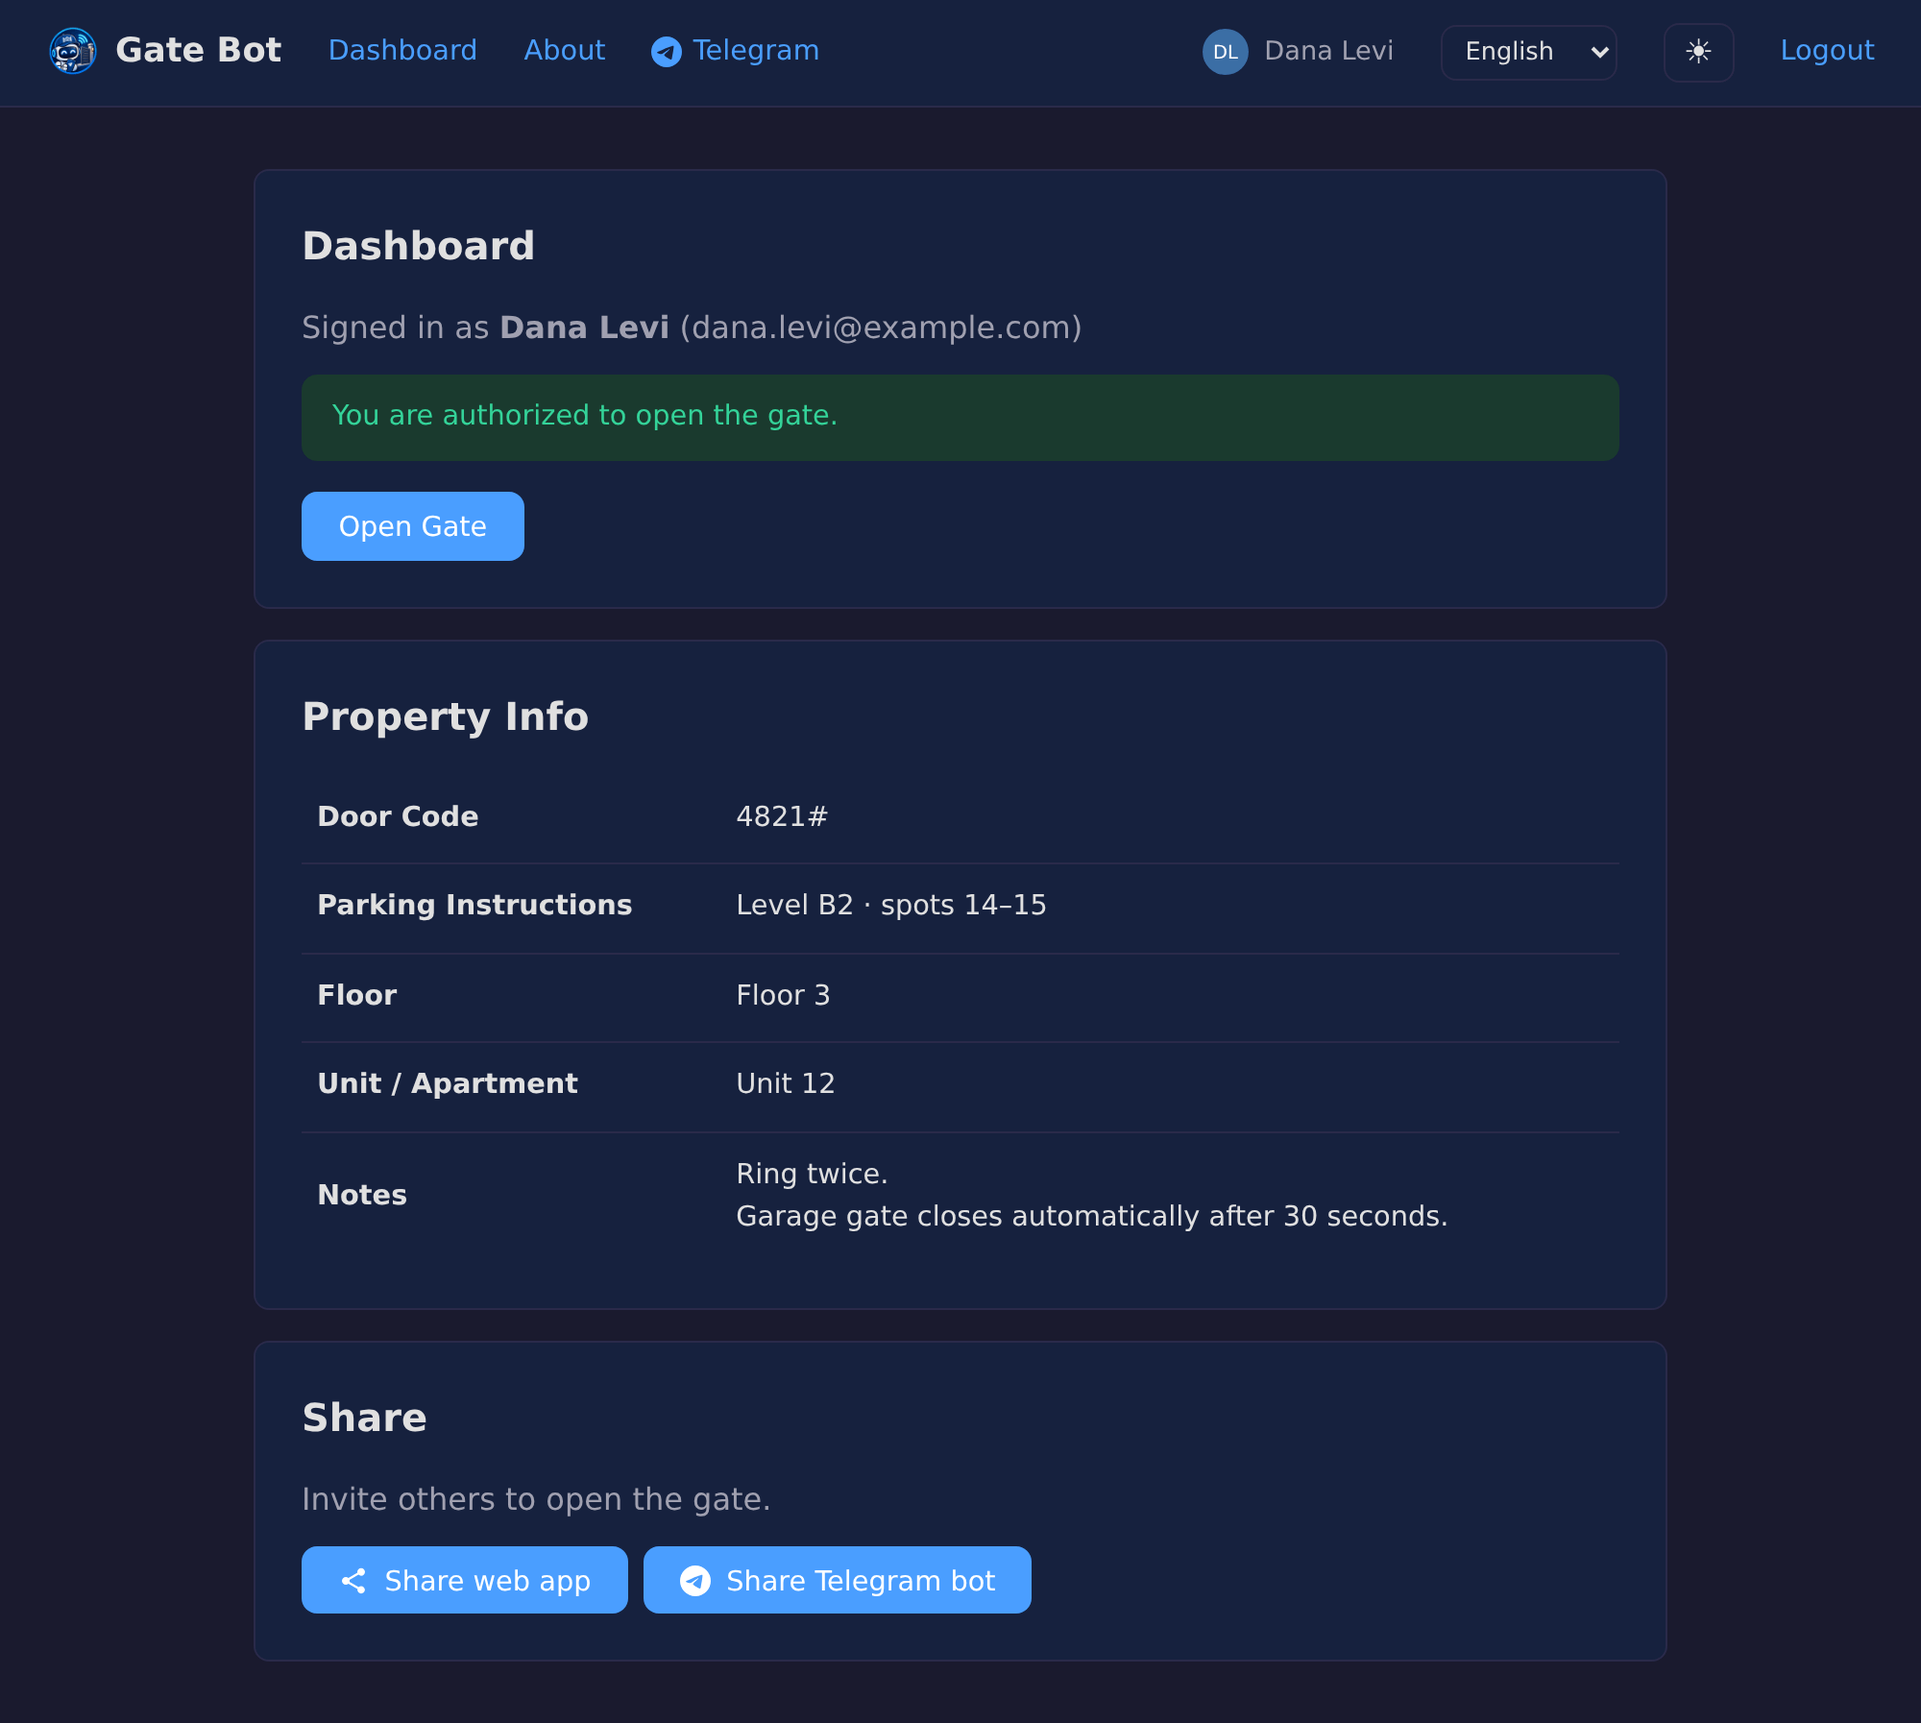
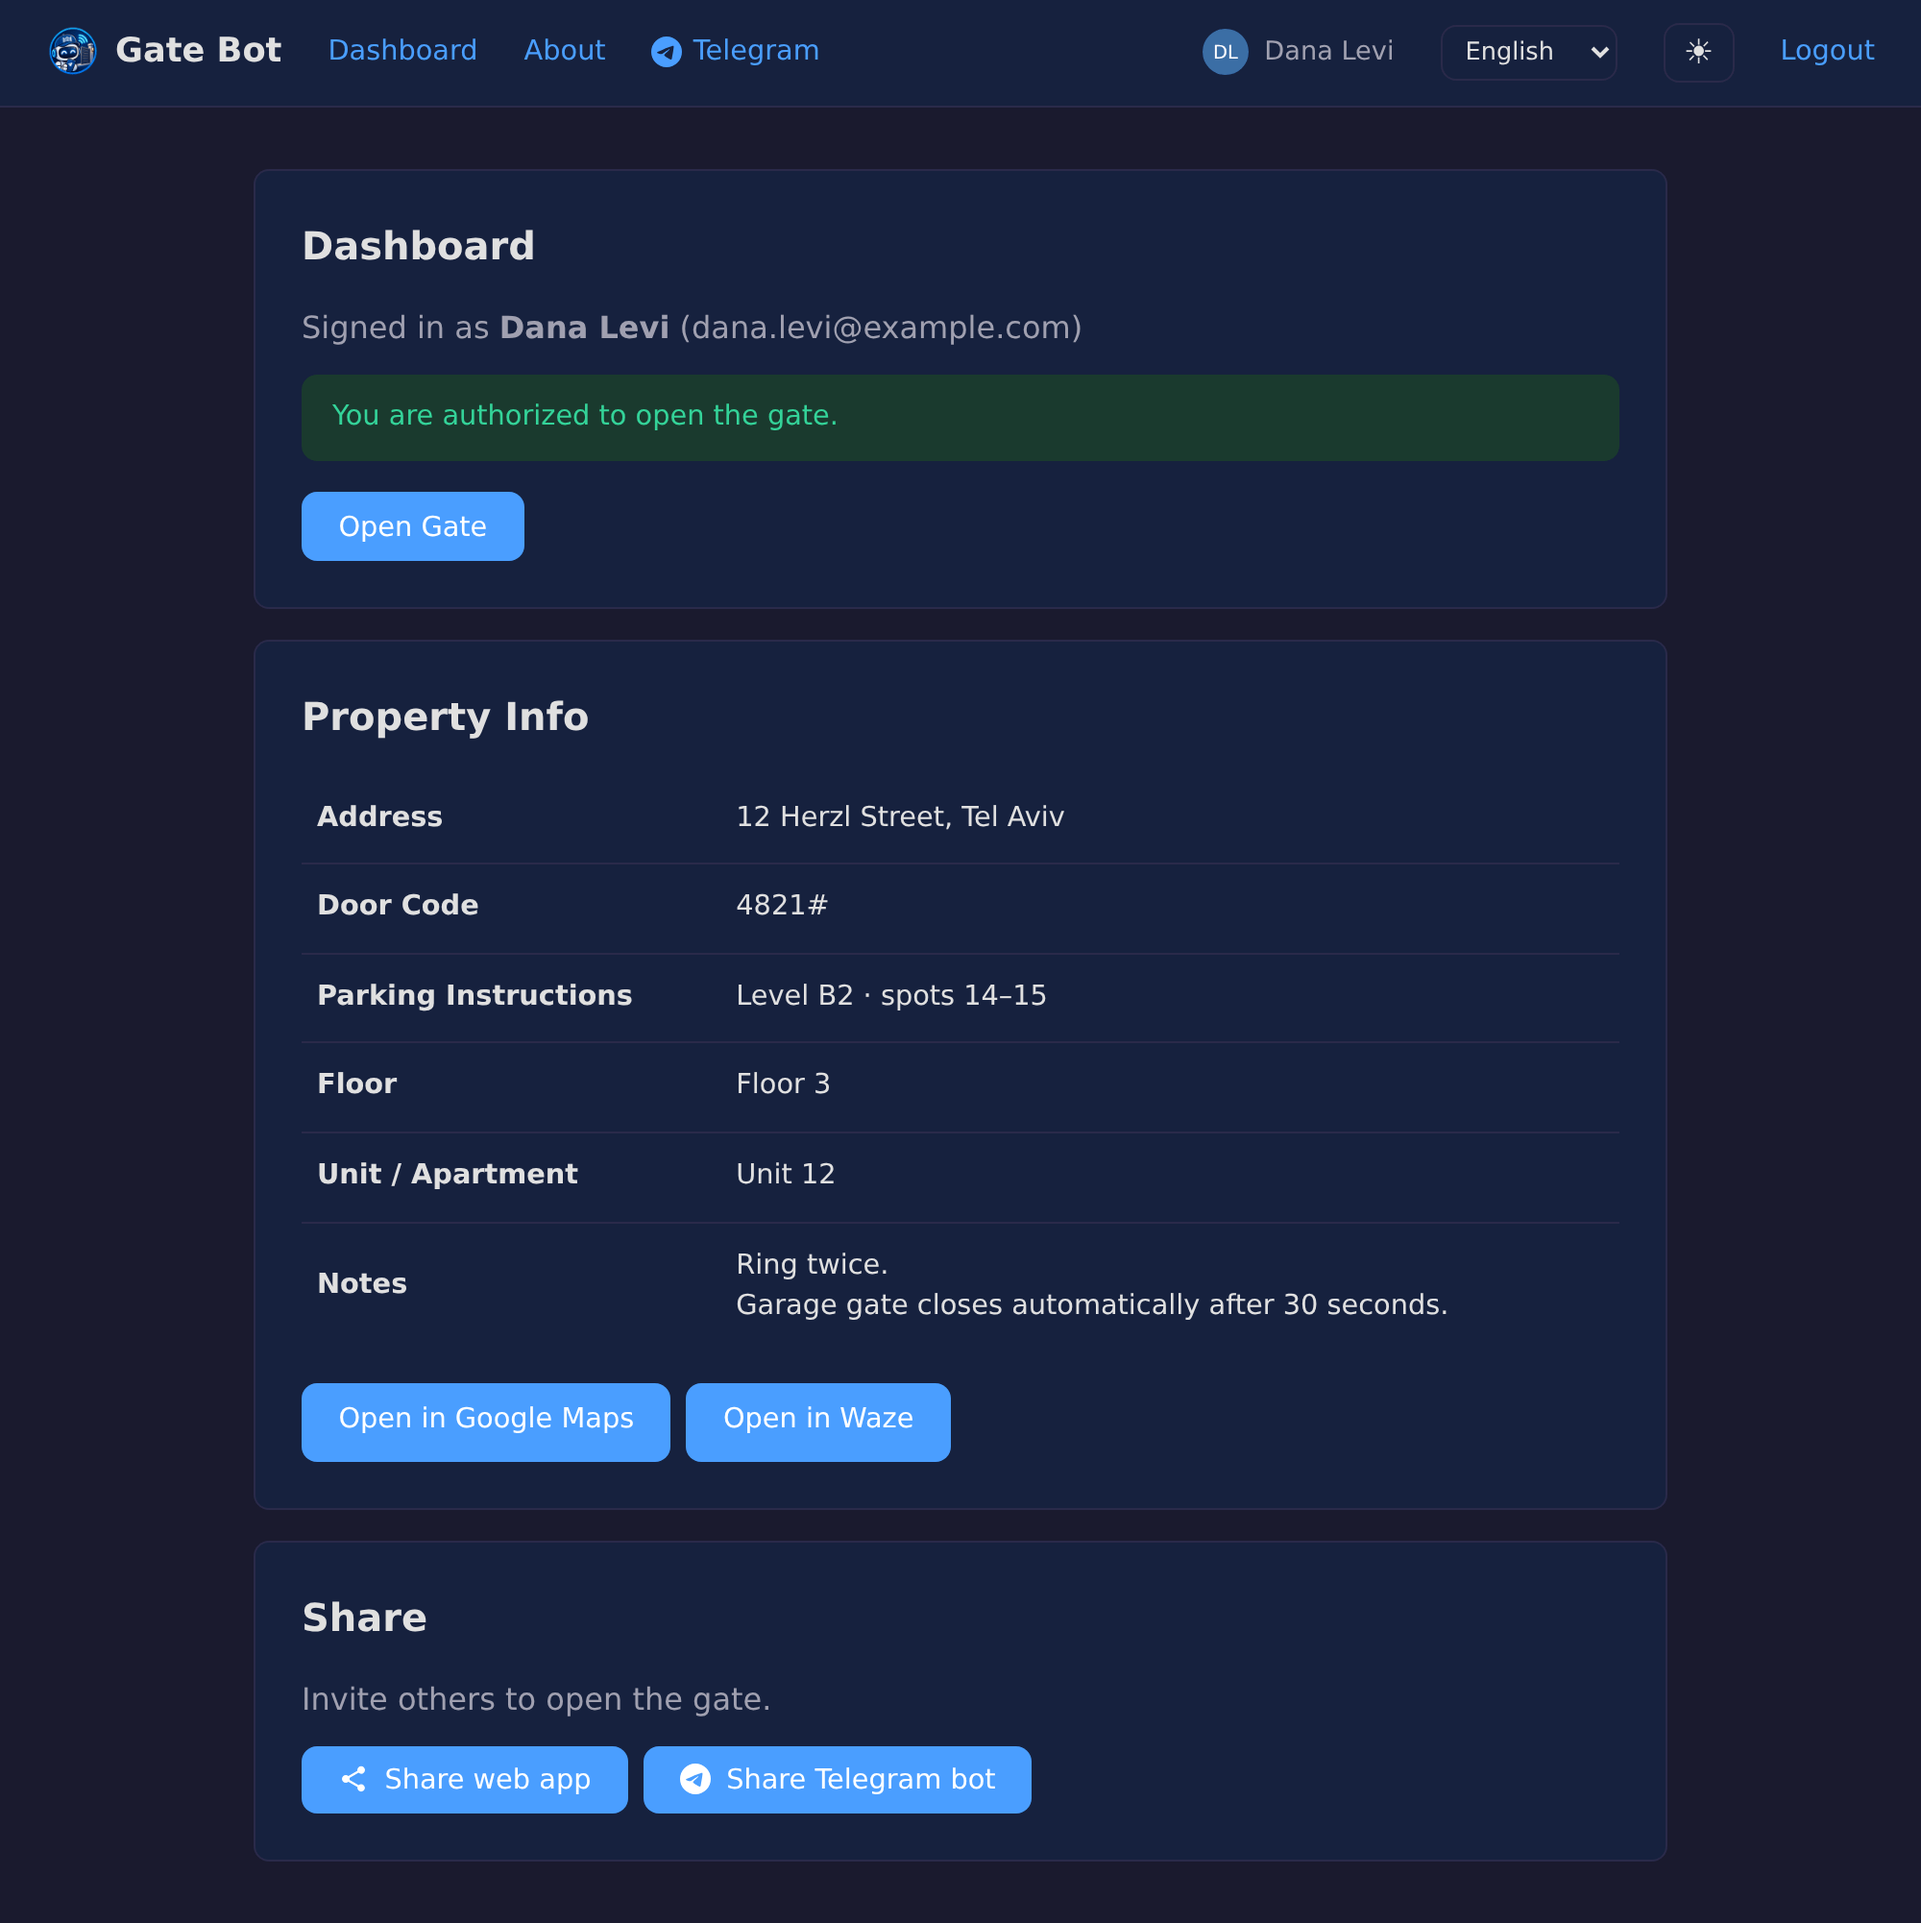
feat(dashboard): show property address with Google Maps and Waze links (#30)
Adds the property address and localized property text to the dashboard with key-free
Google Maps and Waze links, resolves property text per locale in the web UI and in
/info, and documents the settings.

diff --git a/src/framework/environment.ts b/src/framework/environment.ts
@@ -1,5 +1,35 @@
 import { dirname, join } from 'node:path';
 import env from 'env-var';
+import type { Locale } from '../web/locales/index.js';
+
+export interface LocalizedText {
+  base: string | undefined;
+  byLocale: Partial<Record<Locale, string>>;
+}
+
+// Env var suffix per locale. A Record<Locale, string> keeps this in step with supportedLocales in
+// src/web/locales/index.ts: adding a locale there fails the build until it is added here.
+const localeEnvSuffixes: Record<Locale, string> = { en: 'EN', he: 'HE', ru: 'RU' };
+
+// A base English value plus optional per-locale overrides (`<NAME>_HE`, `<NAME>_RU`, ...). A locale
+// with no override falls back to the base value, so a deployment only configures the languages it
+// cares about.
+const readLocalizedText = (name: string): LocalizedText => {
+  const byLocale: Partial<Record<Locale, string>> = {};
+
+  for (const [locale, suffix] of Object.entries(localeEnvSuffixes) as [Locale, string][]) {
+    const value = env.get(`${name}_${suffix}`).asString();
+
+    if (value) {
+      byLocale[locale] = value;
+    }
+  }
+
+  return { base: env.get(name).asString(), byLocale };
+};
+
+export const resolveLocalizedText = (text: LocalizedText, locale: string): string | undefined =>
+  text.byLocale[locale as Locale] ?? text.base;
 
 export const botToken = env.get('BOT_TOKEN').asString();
 export const adminUserIds = env.get('ADMIN_USER_IDS').default('').asSet();
@@ -9,10 +39,13 @@ export const mqttCommandTopic = env.get('MQTT_COMMAND_TOPIC').asString();
 export const mqttDiscoveryTopic = env.get('MQTT_DISCOVERY_TOPIC').asString();
 export const dbPath = env.get('DB_PATH').required().asString();
 export const doorCode = env.get('DOOR_CODE').asString();
-export const parkingInfo = env.get('PARKING_INFO').asString();
-export const floor = env.get('FLOOR').asString();
-export const unit = env.get('UNIT').asString();
-export const propertyNotes = env.get('PROPERTY_NOTES').asString();
+export const propertyAddress = readLocalizedText('PROPERTY_ADDRESS');
+export const parkingInfo = readLocalizedText('PARKING_INFO');
+export const floor = readLocalizedText('FLOOR');
+export const unit = readLocalizedText('UNIT');
+export const propertyNotes = readLocalizedText('PROPERTY_NOTES');
+export const propertyPlaceId = env.get('PROPERTY_PLACE_ID').asString();
+export const propertyCoordinates = env.get('PROPERTY_COORDINATES').asString();
 export const buildVersion = env.get('BUILD_VERSION').default('0.0.0').asString();
 export const activityLogLimit = env.get('ACTIVITY_LOG_LIMIT').default('100').asIntPositive();
 export const logoPath = join(import.meta.dirname, '..', 'web', 'assets', 'logo.png');

diff --git a/src/web/controllers/dashboard.ts b/src/web/controllers/dashboard.ts
@@ -2,17 +2,33 @@ import type { Request, Response } from 'express';
 import { open } from '../../services/open.js';
 import { webBaseUrl } from '../../services/system.js';
 import { isUserAllowed, addPendingRequest } from '../../services/db.js';
-import { doorCode, parkingInfo, floor, unit, propertyNotes, basicAuthUsers } from '../../framework/environment.js';
+import {
+  doorCode,
+  parkingInfo,
+  floor,
+  unit,
+  propertyNotes,
+  propertyAddress,
+  basicAuthUsers,
+  resolveLocalizedText,
+} from '../../framework/environment.js';
 import { failedToOpen, opening, requestSent, alreadyAllowed } from '../../services/messages.js';
+import { buildMapLinks } from '../../services/mapLinks.js';
 import { publish } from '../../services/events.js';
 
-const buildPropertyInfo = (allowed: boolean) => ({
-  doorCode: allowed && doorCode ? doorCode : null,
-  parkingInfo: allowed && parkingInfo ? parkingInfo : null,
-  floor: allowed && floor ? floor : null,
-  unit: allowed && unit ? unit : null,
-  propertyNotes: allowed && propertyNotes ? propertyNotes : null,
-});
+const buildPropertyInfo = (allowed: boolean, locale: string) => {
+  const address = allowed ? resolveLocalizedText(propertyAddress, locale) : undefined;
+
+  return {
+    doorCode: allowed && doorCode ? doorCode : null,
+    address: address ?? null,
+    parkingInfo: allowed ? (resolveLocalizedText(parkingInfo, locale) ?? null) : null,
+    floor: allowed ? (resolveLocalizedText(floor, locale) ?? null) : null,
+    unit: allowed ? (resolveLocalizedText(unit, locale) ?? null) : null,
+    propertyNotes: allowed ? (resolveLocalizedText(propertyNotes, locale) ?? null) : null,
+    ...(allowed ? buildMapLinks(address) : { googleMapsUrl: undefined, wazeUrl: undefined }),
+  };
+};
 
 export const dashboardPage = (req: Request, res: Response): void => {
   const { user } = req.session;
@@ -23,12 +39,13 @@ export const dashboardPage = (req: Request, res: Response): void => {
   }
 
   const allowed = user.isAdmin || isUserAllowed(user.id, 'web');
+  const locale = req.session.locale ?? 'en';
 
   res.render('dashboard', {
     user,
     isAllowed: allowed,
     webUrl: webBaseUrl ?? '',
-    ...buildPropertyInfo(allowed),
+    ...buildPropertyInfo(allowed, locale),
     message: null,
   });
 };

diff --git a/src/commands/userInfo.ts b/src/commands/userInfo.ts
@@ -1,19 +1,34 @@
 import type { Telegraf } from 'telegraf';
 import { authorize } from '../services/authorize.js';
-import { doorCode, parkingInfo, floor, unit, propertyNotes } from '../framework/environment.js';
+import {
+  doorCode,
+  parkingInfo,
+  floor,
+  unit,
+  propertyNotes,
+  resolveLocalizedText,
+} from '../framework/environment.js';
+import { detectLocale } from '../web/locales/index.js';
 import { infoHeading, notAllowed } from '../services/messages.js';
 import { sendMessage } from '../services/telegram.js';
 
-const infoLines: string[] = [
-  infoHeading,
-  ...(doorCode ? [`Door Code 🔢: ${doorCode}`] : []),
-  ...(parkingInfo ? [`Parking 🅿: ${parkingInfo}`] : []),
-  ...(floor ? [`Floor: ${floor}`] : []),
-  ...(unit ? [`Unit: ${unit}`] : []),
-  ...(propertyNotes ? [`Notes 📝: ${propertyNotes}`] : []),
-];
+const buildInfo = (locale: string): string => {
+  const parking = resolveLocalizedText(parkingInfo, locale);
+  const floorText = resolveLocalizedText(floor, locale);
+  const unitText = resolveLocalizedText(unit, locale);
+  const notes = resolveLocalizedText(propertyNotes, locale);
 
-const infoString = infoLines.length > 1 ? infoLines.join('\n') : 'No property info set.';
+  const lines: string[] = [
+    infoHeading,
+    ...(doorCode ? [`Door Code 🔢: ${doorCode}`] : []),
+    ...(parking ? [`Parking 🅿: ${parking}`] : []),
+    ...(floorText ? [`Floor: ${floorText}`] : []),
+    ...(unitText ? [`Unit: ${unitText}`] : []),
+    ...(notes ? [`Notes 📝: ${notes}`] : []),
+  ];
+
+  return lines.length > 1 ? lines.join('\n') : 'No property info set.';
+};
 
 export const userInfoCommand = (bot: Telegraf) => {
   bot.command('info', async (ctx) => {
@@ -23,6 +38,8 @@ export const userInfoCommand = (bot: Telegraf) => {
       return sendMessage(ctx.chat.id, notAllowed);
     }
 
-    return sendMessage(ctx.chat.id, infoString);
+    const locale = detectLocale(ctx.from.language_code);
+
+    return sendMessage(ctx.chat.id, buildInfo(locale));
   });
 };

diff --git a/src/services/mapLinks.ts b/src/services/mapLinks.ts
@@ -1,0 +1,29 @@
+import { propertyPlaceId, propertyCoordinates } from '../framework/environment.js';
+
+export interface MapLinks {
+  googleMapsUrl: string | undefined;
+  wazeUrl: string | undefined;
+}
+
+// Key-free deep links into the two navigation apps. Google Maps takes the address plus an optional
+// place id (the address stays required — it is the fallback when the id does not resolve), while
+// Waze has no consumer place-id parameter and needs coordinates for an exact destination. A missing
+// address leaves both links undefined so the card renders without dead buttons.
+export const buildMapLinks = (address: string | undefined): MapLinks => {
+  const destination = address?.trim();
+
+  if (!destination) {
+    return { googleMapsUrl: undefined, wazeUrl: undefined };
+  }
+
+  const encodedAddress = encodeURIComponent(destination);
+  const placeId = propertyPlaceId ? `&destination_place_id=${encodeURIComponent(propertyPlaceId)}` : '';
+  const coordinates = propertyCoordinates?.trim();
+
+  return {
+    googleMapsUrl: `https://www.google.com/maps/dir/?api=1&destination=${encodedAddress}${placeId}&dir_action=navigate`,
+    wazeUrl: coordinates
+      ? `https://waze.com/ul?ll=${encodeURIComponent(coordinates)}&navigate=yes`
+      : `https://waze.com/ul?q=${encodedAddress}&navigate=yes`,
+  };
+};

diff --git a/README.md b/README.md
@@ -98,11 +98,25 @@ services:
       MQTT_COMMAND_TOPIC: ${MQTT_COMMAND_TOPIC}
       MQTT_DISCOVERY_TOPIC: ${MQTT_DISCOVERY_TOPIC}
       # Property info
+      PROPERTY_ADDRESS: ${PROPERTY_ADDRESS}
+      PROPERTY_PLACE_ID: ${PROPERTY_PLACE_ID}
+      PROPERTY_COORDINATES: ${PROPERTY_COORDINATES}
       DOOR_CODE: ${DOOR_CODE}
       PARKING_INFO: ${PARKING_INFO}
       FLOOR: ${FLOOR}
       UNIT: ${UNIT}
       PROPERTY_NOTES: ${PROPERTY_NOTES}
+      # Per-locale overrides — uncomment the ones you set in .env.
+      # PROPERTY_ADDRESS_HE: ${PROPERTY_ADDRESS_HE}
+      # PROPERTY_ADDRESS_RU: ${PROPERTY_ADDRESS_RU}
+      # PARKING_INFO_HE: ${PARKING_INFO_HE}
+      # PARKING_INFO_RU: ${PARKING_INFO_RU}
+      # FLOOR_HE: ${FLOOR_HE}
+      # FLOOR_RU: ${FLOOR_RU}
+      # UNIT_HE: ${UNIT_HE}
+      # UNIT_RU: ${UNIT_RU}
+      # PROPERTY_NOTES_HE: ${PROPERTY_NOTES_HE}
+      # PROPERTY_NOTES_RU: ${PROPERTY_NOTES_RU}
       # Web UI (set WEB_ENABLED=true to enable)
       WEB_ENABLED: ${WEB_ENABLED}
       WEB_PORT: ${WEB_PORT:-3000}
@@ -159,6 +173,9 @@ Everything is configured through environment variables. `DB_PATH` is the only on
 | `MQTT_COMMAND_TOPIC` | no | — | MQTT topic used to publish gate events. |
 | `MQTT_DISCOVERY_TOPIC` | no | — | MQTT topic used for Home Assistant discovery. |
 | **Property info** | | | |
+| `PROPERTY_ADDRESS` | no | — | Property address. Shown on the dashboard with "Open in Google Maps" / "Open in Waze" buttons. |
+| `PROPERTY_PLACE_ID` | no | — | Google Maps place id, appended to the Google Maps link so it opens the exact place. |
+| `PROPERTY_COORDINATES` | no | — | `lat,lng` used by the Waze link. Waze has no place-id parameter, so coordinates are what make it land on the right destination. |
 | `DOOR_CODE` | no | — | Door code. |
 | `PARKING_INFO` | no | — | Parking instructions. |
 | `FLOOR` | no | — | Floor number. |
@@ -182,6 +199,12 @@ Everything is configured through environment variables. `DB_PATH` is the only on
 | `BUILD_VERSION` | no | `0.0.0` | Reported by `/version`, the health endpoint and the About page. Set automatically by the Docker build. |
 
 \* Required only when `WEB_ENABLED=true`.
+
+### Localized property text
+
+Every property text setting (`PROPERTY_ADDRESS`, `PARKING_INFO`, `FLOOR`, `UNIT`, `PROPERTY_NOTES`) also accepts a per-locale override by appending the uppercase language code: `PROPERTY_ADDRESS_HE`, `PROPERTY_ADDRESS_RU`, `PARKING_INFO_HE`, and so on. The base value is the fallback, so you only need to configure the languages you want to translate — a locale without an override shows the base (English) text. The web UI resolves the text with the language the visitor selected; the Telegram `/info` command uses the Telegram client's language.
+
+Compose reads `.env` for interpolation only; it does not inject every variable into the container. Each override you set in `.env` must also be listed in the service's `environment:` mapping — the commented lines in the Compose example above are there to copy out. Running the container directly needs no extra step as long as you pass the file: `docker run --env-file .env …`. The same goes for a Compose `env_file:` entry — both hand the whole file to the container, so every override in it is already forwarded.
 
 ## Usage
 
